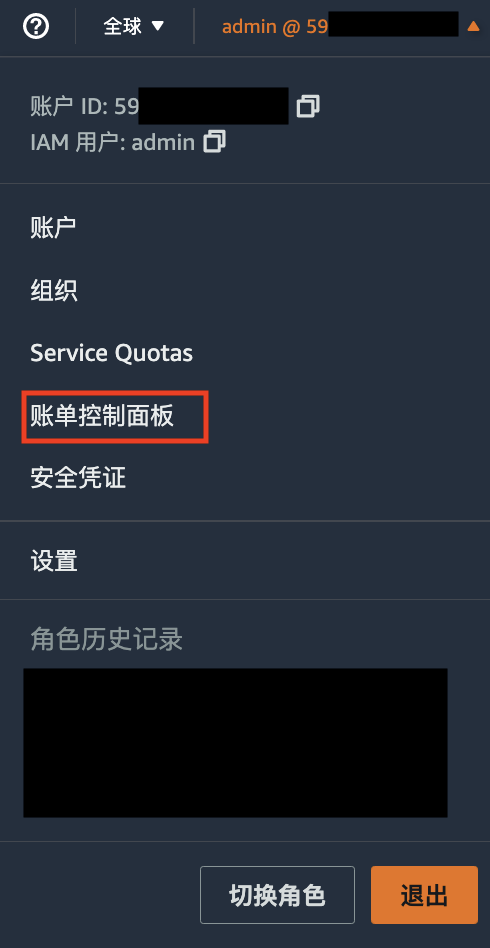
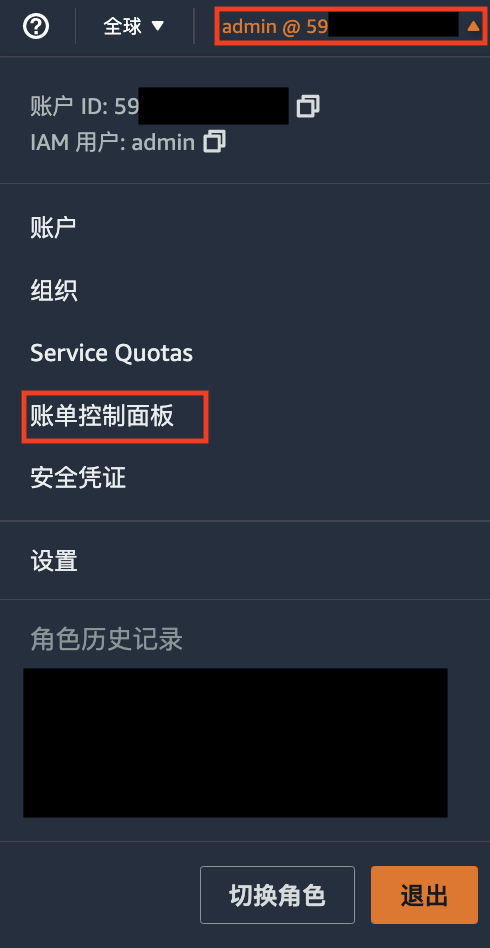
dsas

Changed region(s): [[0.4286, 0.0, 1.0, 0.0612]]

diff --git a/content/30_operations/10_tag.md b/content/30_operations/10_tag.md
@@ -1,5 +1,5 @@
 ---
-title: "利用标签进行权限隔离和费用分摊"
+title: "利用标签进行权限限制和费用分摊"
 date: 2022-04-12T14:32:23+08:00
 weight: 10
 draft: false
@@ -11,7 +11,7 @@ https://console.aws.amazon.com/cloudshell/home
 
 CloudShell在浏览器上提供了一个运行各种aws命令行工具的的shell环境，使得你可以非常简单的使用命令管理和操作AWS资源。CloudShell直接继承登陆控制台用户的权限，无需额外使用AKSK，从而避免了AKSK泄露的风险。
 
-![打开账单控制台](/images/cloudshell.png?classes=border)
+![CloudShell](/images/cloudshell.png?classes=border)
 
 **小技巧：在控制台右上角的“操作”菜单,通过上传和下载文件可进行本地和CloudShell之间的文件传输。**
 
@@ -36,6 +36,8 @@ sam build
 sam deploy --stack-name AutoOpsCommon --region $MAIN_REGION --confirm-changeset   --resolve-s3 --capabilities CAPABILITY_IAM
 ``` 
 
+部署过程中，屏幕将会提示本次部署所需要创建/更新/删除的组件，确认后输入“y“->“回车”继续完成部署。
+
 ### 2. 部署CloudFront自动配置流程
 
 该流程将通过EventBridge侦听CloudFront分配的创建，修改和删除事件，对分配的标签和告警进行配置。
@@ -59,19 +61,25 @@ sam build
 sam deploy --stack-name AutoOpsCloudFrontProvision --region $REGION --confirm-changeset --resolve-s3 --capabilities CAPABILITY_IAM
 ```
 
+部署过程中，屏幕将会提示本次部署所需要创建/更新/删除的组件，确认后输入“y“->“回车”继续完成部署。
+
 ### 3. 使用标签分析成本
 
 3.1 激活成本标签
 
-![打开账单控制台](/images/billing_dashboard.png?classes=border&width=200px)
+点击右上角的登陆用户信息弹出下拉框，选择“账单控制面板“看看账单和费用信息
 
-![激活成本标签](/images/active_cost_tag.png?classes=border&width=700px)
+![打开账单控制面板](/images/billing_dashboard.png?classes=border&width=200px)
+
+在左侧导航栏选择“成本分配标签”
+
+![激活成本标签](/images/active_cost_tag.png?classes=border&width=7  00px)
 
 3.2 在Cost Explorer中查看账单
 
 使用以下URL打开Cost Explorer控制台：
     
-https://us-east-1.console.aws.amazon.com/cost-management/home#/custom
+https://console.aws.amazon.com/cost-management/home#/custom
 
 在图表右侧的筛选条件中，可使用标签以及其他维度对关心的费用进行过滤：
 

diff --git a/content/50_troubleshoot/10_dns_check.md b/content/50_troubleshoot/10_dns_check.md
@@ -8,11 +8,11 @@ draft: false
 通过dig命令可检查当前访问的PoP点及其IP：
 ```
 # 正向解析获得节点IP
-# dig a.test.com +short
-# dig -x dxxxxxxx.cloudfront.net +short
+dig a.test.com +short
+dig -x dxxxxxxx.cloudfront.net +short
 
 # 反向解析查看IP归属
-# dig 1.1.1.1 +short
+dig 1.1.1.1 +short
 ```
 ### 例子
 ![dig](/images/dig.png?classes=border)
